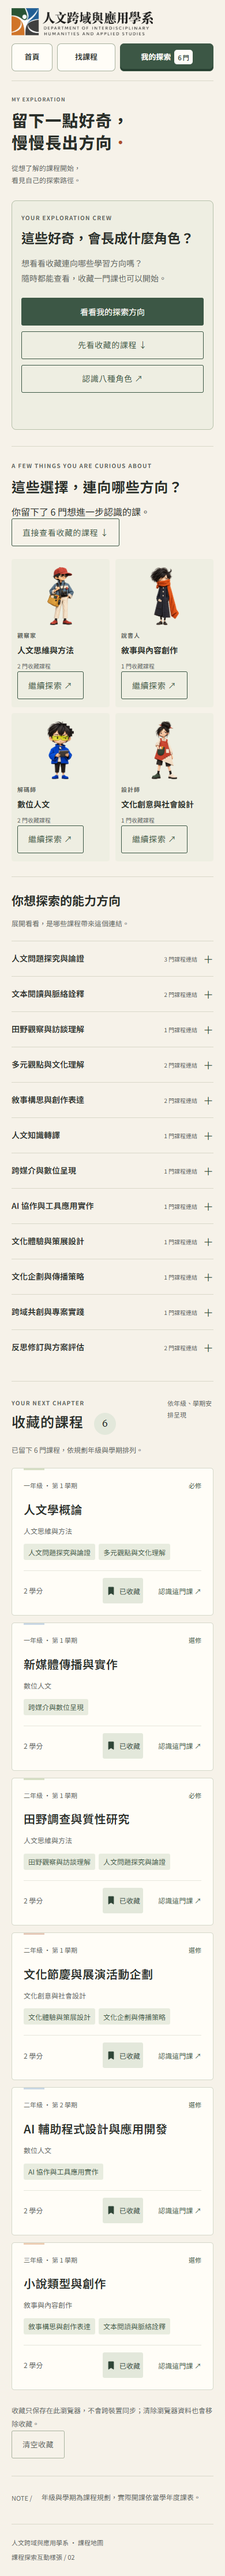
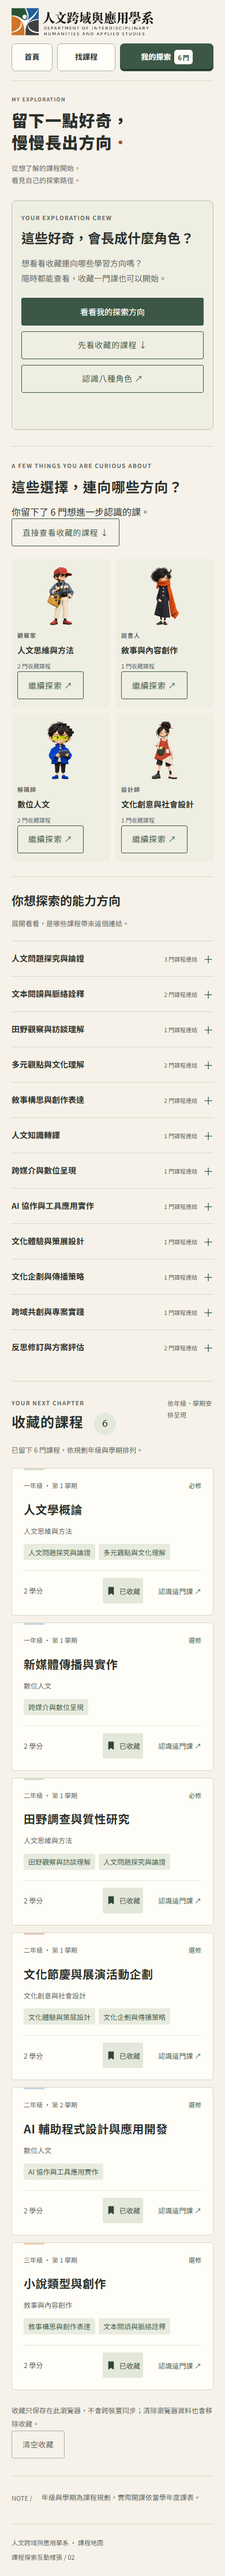
feat: refine interactions and add browser verification

diff --git a/doc/design/character-home-20261011/style.css b/doc/design/character-home-20261011/style.css
@@ -4,6 +4,7 @@
 @media(max-width:1000px) and (min-width:701px){.wrap{width:calc(100% - 48px)}.portrait{height:260px}.domain-sub{font-size:11px}.domain-detail{grid-template-columns:1fr 1.5fr}.domain-detail .primary{grid-column:2;justify-self:start}.role-card{flex-basis:25%}.profession-heading h2{font-size:26px}}
 @media(max-width:700px){.wrap{width:calc(100% - 40px)}.masthead{min-height:86px;gap:14px}.logo{width:245px;max-width:70%}.text-link{font-size:12px;gap:5px}.hero{padding:34px 0 30px}.eyebrow{font-size:10px;letter-spacing:.13em}h1{font-size:51px}.lead{font-size:13px;letter-spacing:.02em;margin-top:10px}.section-line h2{font-size:12px}.index{margin-right:8px}.desktop-hint{display:none}.domain-tabs{display:grid;grid-template-columns:repeat(4,1fr);gap:5px;margin-top:17px}.domain-tabs button{background:transparent;border-radius:3px;min-height:44px;font-size:13px;padding:8px 0;border:1px solid var(--line)}.domain-tabs button[aria-pressed=true]{background:var(--green);color:white;border-color:var(--green)}.domain-track{display:flex;overflow-x:auto;gap:16px;scroll-snap-type:x mandatory;overscroll-behavior-x:contain;padding:20px 10% 0;scroll-padding-inline:10%;scrollbar-width:none;margin-inline:-20px}.domain-track::-webkit-scrollbar{display:none}.domain-card{flex:0 0 86%;scroll-snap-align:center;padding-top:12px;padding-bottom:12px}.portrait{height:310px;max-width:270px;margin-bottom:18px}.character-name{font-size:24px}.domain-sub{font-size:12px}.selected-label{margin-top:6px}.mobile-controls{display:flex;justify-content:space-between;align-items:center;gap:12px;margin-top:16px;font-size:11px;color:var(--muted)}.mobile-controls .swipe-hint{margin-left:auto}.domain-detail{grid-template-columns:1fr;gap:14px;padding:26px 0;min-height:240px}.domain-detail h3{font-size:22px}.domain-detail p:not(.detail-label){font-size:14px}.domain-detail .primary{justify-self:start}.profession-section{margin-top:40px;padding:32px 0 24px}.profession-heading{align-items:start}.profession-heading h2{font-size:24px;max-width:240px}.profession-heading p:not(.eyebrow){font-size:13px}.gallery-controls{gap:5px;flex-direction:column}.role-track{gap:14px;margin-inline:-5px;padding-top:22px}.role-card{flex-basis:44%;padding-inline:3px}.role-card img{height:220px}.role-card h3{font-size:19px}.role-card p{font-size:11px}.role-note{display:block}.role-note span{display:block;margin-top:6px}.course-entry{align-items:start;flex-direction:column;padding-block:40px;gap:22px}.course-entry h2{font-size:25px}footer{flex-direction:column;gap:5px;padding-bottom:22px}.role-detail{grid-template-columns:1fr;gap:16px}.role-detail img{height:230px}dialog{padding:22px}.course-list li{align-items:start}.course-list small{max-width:95px}.dialog-top{margin-bottom:12px}}
 @media(max-width:700px){.domain-track{padding-inline:20vw;scroll-padding-inline:20vw}.domain-card{flex-basis:60vw}.role-card{flex-basis:40%}.profession-heading h2{font-size:22px;text-wrap:balance}}
+@media(max-width:700px){.domain-card{pointer-events:none}}
 @media(prefers-reduced-motion:reduce){*,*:before,*:after{transition:none!important;animation:none!important;scroll-behavior:auto!important}.domain-card:hover .portrait img,.domain-card[aria-pressed=true] .portrait img,.role-card:hover img{transform:none}}
 
 /* 2026-10-11 detail pass: stronger touch feedback (UI-13-001/019/021) */
@@ -50,3 +51,17 @@
 @media(max-width:700px){.masthead{gap:12px}.masthead .logo{min-width:0;max-width:calc(100% - 118px);height:auto}.masthead .button-secondary{padding:8px 12px;font-size:13px;gap:6px}}
 .course-list>li{border:0;padding:0;margin:0;display:flex}
 .course-list>li>.course-chip{flex:1}
+
+/* Motion pass: restrained feedback for repeated controls. */
+:root{--ease-out:cubic-bezier(.23,1,.32,1)}
+.domain-card[aria-pressed=true] .portrait img{transform:scale(1.03)}
+.domain-card:focus-visible .portrait img,.role-card:focus-visible img{transform:none}
+.role-card:active img,.domain-card:active .portrait img{transform:scale(.98)}
+@media(hover:hover) and (pointer:fine){.domain-card:hover .portrait img{transform:translateY(-3px) scale(1.04)}.domain-card:hover .portrait:before{transform:scale(1.03);opacity:.8}.role-card:hover img{transform:translateY(-3px) scale(1.04)}}
+@media(hover:none),(pointer:coarse){.domain-card:hover .portrait img{transform:none}.domain-card[aria-pressed=true] .portrait img{transform:scale(1.03)}.role-card:hover img{transform:none}}
+dialog{opacity:0;transform:scale(.97);transition:opacity 200ms var(--ease-out),transform 200ms var(--ease-out),overlay 200ms allow-discrete,display 200ms allow-discrete}
+dialog[open]{opacity:1;transform:scale(1)}
+dialog::backdrop{opacity:0;transition:opacity 200ms var(--ease-out),overlay 200ms allow-discrete,display 200ms allow-discrete}
+dialog[open]::backdrop{opacity:1}
+@starting-style{dialog[open]{opacity:0;transform:scale(.97)}dialog[open]::backdrop{opacity:0}}
+@media(prefers-reduced-motion:reduce){dialog,dialog[open]{transform:none!important;transition:opacity 160ms var(--ease-out),overlay 160ms allow-discrete,display 160ms allow-discrete!important}.primary,.button-secondary,.arrow,.domain-tabs button{transition:background-color 120ms ease,color 120ms ease,border-color 120ms ease!important}}

diff --git a/doc/design/character-home-20261011/courses.html b/doc/design/character-home-20261011/courses.html
@@ -6,7 +6,7 @@
 <header class="masthead wrap"><a class="brand-link" href="index.html" aria-label="回到課程地圖首頁"><img class="logo" src="assets/logo.webp" alt="人文跨域與應用學系"></a><nav class="catalog-nav" aria-label="課程探索導覽"><a class="text-link" href="index.html">首頁</a><a class="text-link" id="browse-link" href="courses.html">找課程</a><a class="text-link" id="collection-link" href="courses.html?view=saved">我的探索 <span class="nav-count"><span data-save-count>0</span> 門</span></a></nav></header>
 <main class="wrap catalog-main">
   <section class="catalog-intro" aria-labelledby="catalog-title"><div><p class="eyebrow">FOLLOW YOUR CURIOSITY</p><h1 id="catalog-title">把好奇，變成<br>下一門課<span class="title-dot">．</span></h1><p class="catalog-lead">讀懂一段故事、走進一個地方，或試著做出改變。<br>從 69 門課程裡，找一個想開始的方向。</p></div><div class="intro-side" id="intro-side"></div></section>
-  <section id="role-exploration" class="role-exploration" aria-labelledby="role-exploration-title" aria-busy="false" hidden><p class="eyebrow">YOUR EXPLORATION CREW</p><h2 id="role-exploration-title">這些好奇，會長成什麼角色？</h2><p class="role-intro">想看看收藏連向哪些學習方向嗎？<br>隨時都能查看，收藏一門課也可以開始。</p><div class="role-actions"><button id="show-role-results" class="primary" type="button">看看我的探索方向</button><a class="button-secondary" href="#results-title">先看收藏的課程 ↓</a><a class="button-secondary" href="index.html#profession-title">認識八種角色 ↗</a></div><p id="role-status" class="role-status" role="status" aria-live="polite" aria-atomic="true"></p><div id="role-output" class="role-output" hidden></div></section>
+  <section id="role-exploration" class="role-exploration" aria-labelledby="role-exploration-title" aria-busy="false" hidden><p class="eyebrow">YOUR EXPLORATION CREW</p><h2 id="role-exploration-title">這些好奇，會長成什麼角色？</h2><p class="role-intro">想看看收藏連向哪些學習方向嗎？<br>隨時都能查看，收藏一門課也可以開始。</p><div class="role-actions"><button id="show-role-results" class="primary" type="button">看看我的探索方向</button><a id="start-role-exploration" class="primary" href="courses.html" hidden>去看看課程 ↗</a><a class="button-secondary" href="#results-title">先看收藏的課程 ↓</a><a class="button-secondary" href="index.html#profession-title">認識八種角色 ↗</a></div><p id="role-status" class="role-status" role="status" aria-live="polite" aria-atomic="true"></p><div id="role-output" class="role-output" hidden></div></section>
   <section class="filter-panel" aria-labelledby="filter-title">
     <div class="filter-heading"><h2 id="filter-title"><span class="index">01 /</span> 你想從哪裡開始？</h2><button class="reset button-secondary is-quiet" type="button">清除全部條件 ↺</button></div>
     <form id="search-form" role="search"><label for="search">搜尋課程名稱</label><div class="search-row"><input id="search" type="search" placeholder="例如：故事、地方、AI" autocomplete="off"><button class="primary" type="submit">搜尋 <span aria-hidden="true">↗</span></button></div></form>

diff --git a/doc/design/character-home-20261011/collection.css b/doc/design/character-home-20261011/collection.css
@@ -2,3 +2,7 @@
 @media(max-width:1100px){.direction-grid{grid-template-columns:repeat(2,minmax(0,1fr))}.card-actions{gap:8px}.catalog-nav{gap:14px}}
 @media(max-width:700px){.catalog-page .masthead{flex-wrap:wrap;gap:4px;padding:14px 0 8px}.catalog-page .brand-link{width:245px;max-width:100%}.catalog-nav{width:100%;justify-content:space-between;gap:12px}.catalog-nav .text-link{font-size:12px;min-height:40px}.card-actions{gap:14px}.direction-grid{gap:10px;margin:22px 0 26px}.direction-tile{padding:14px 10px;gap:9px;align-items:start;flex-direction:column}.direction-tile img{height:100px;width:52px;align-self:center}.direction-tile h3{font-size:14px}.direction-count{font-size:10px}.direction-tile .text-link{font-size:11px}.summary-heading h2{font-size:24px}.summary-heading>p:last-child{font-size:12px}.interest-list{grid-template-columns:1fr;margin-top:18px}.interest-heading h2{font-size:21px}.interest-heading p{font-size:12px}.interest-direction summary span{font-size:14px}.interest-direction summary small{font-size:10px}.interest-direction summary{gap:10px;min-height:60px}.interest-note{font-size:11px}.collection-summary{padding-top:24px}.detail-save-row{gap:12px;align-items:start}.collection-notices>#collection-feedback{bottom:16px;padding:12px 16px;font-size:12px}.saved-view .catalog-intro h1{font-size:28px}}
 @media(prefers-reduced-motion:reduce){.save-button{transition:none}}
+
+.collection-notices>#collection-feedback{visibility:hidden;opacity:0;transform:translate(-50%,100%);transition:opacity 200ms var(--ease-out),transform 200ms var(--ease-out),visibility 0s linear 200ms}
+.collection-notices>#collection-feedback.is-visible{visibility:visible;opacity:1;transform:translate(-50%,0);transition-delay:0s}
+@media(prefers-reduced-motion:reduce){.collection-notices>#collection-feedback,.collection-notices>#collection-feedback.is-visible{transform:translateX(-50%);transition:opacity 160ms var(--ease-out),visibility 0s linear 160ms!important}.save-button{transition:none!important}}
